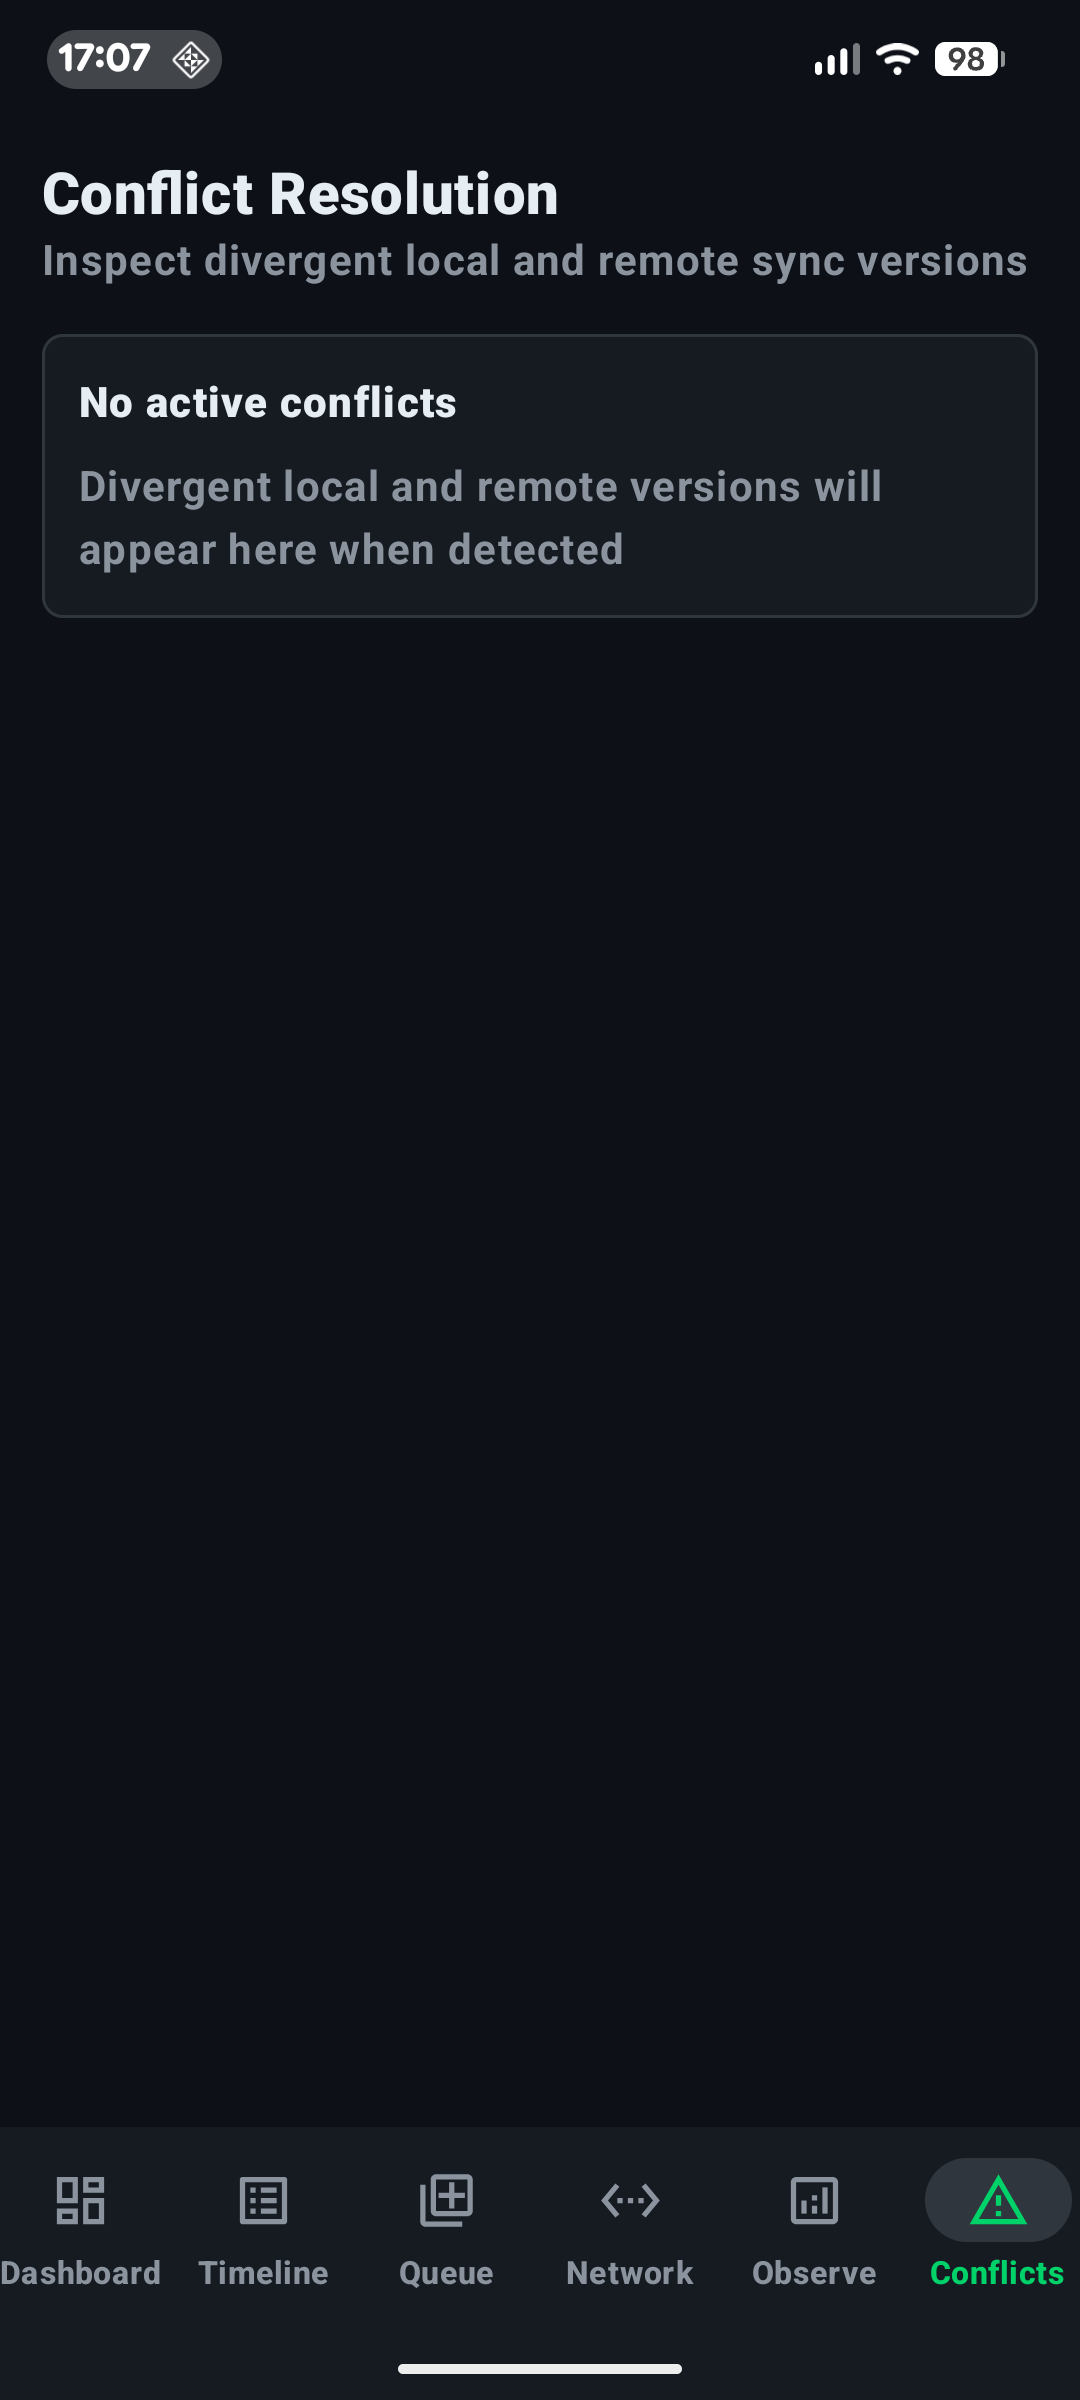
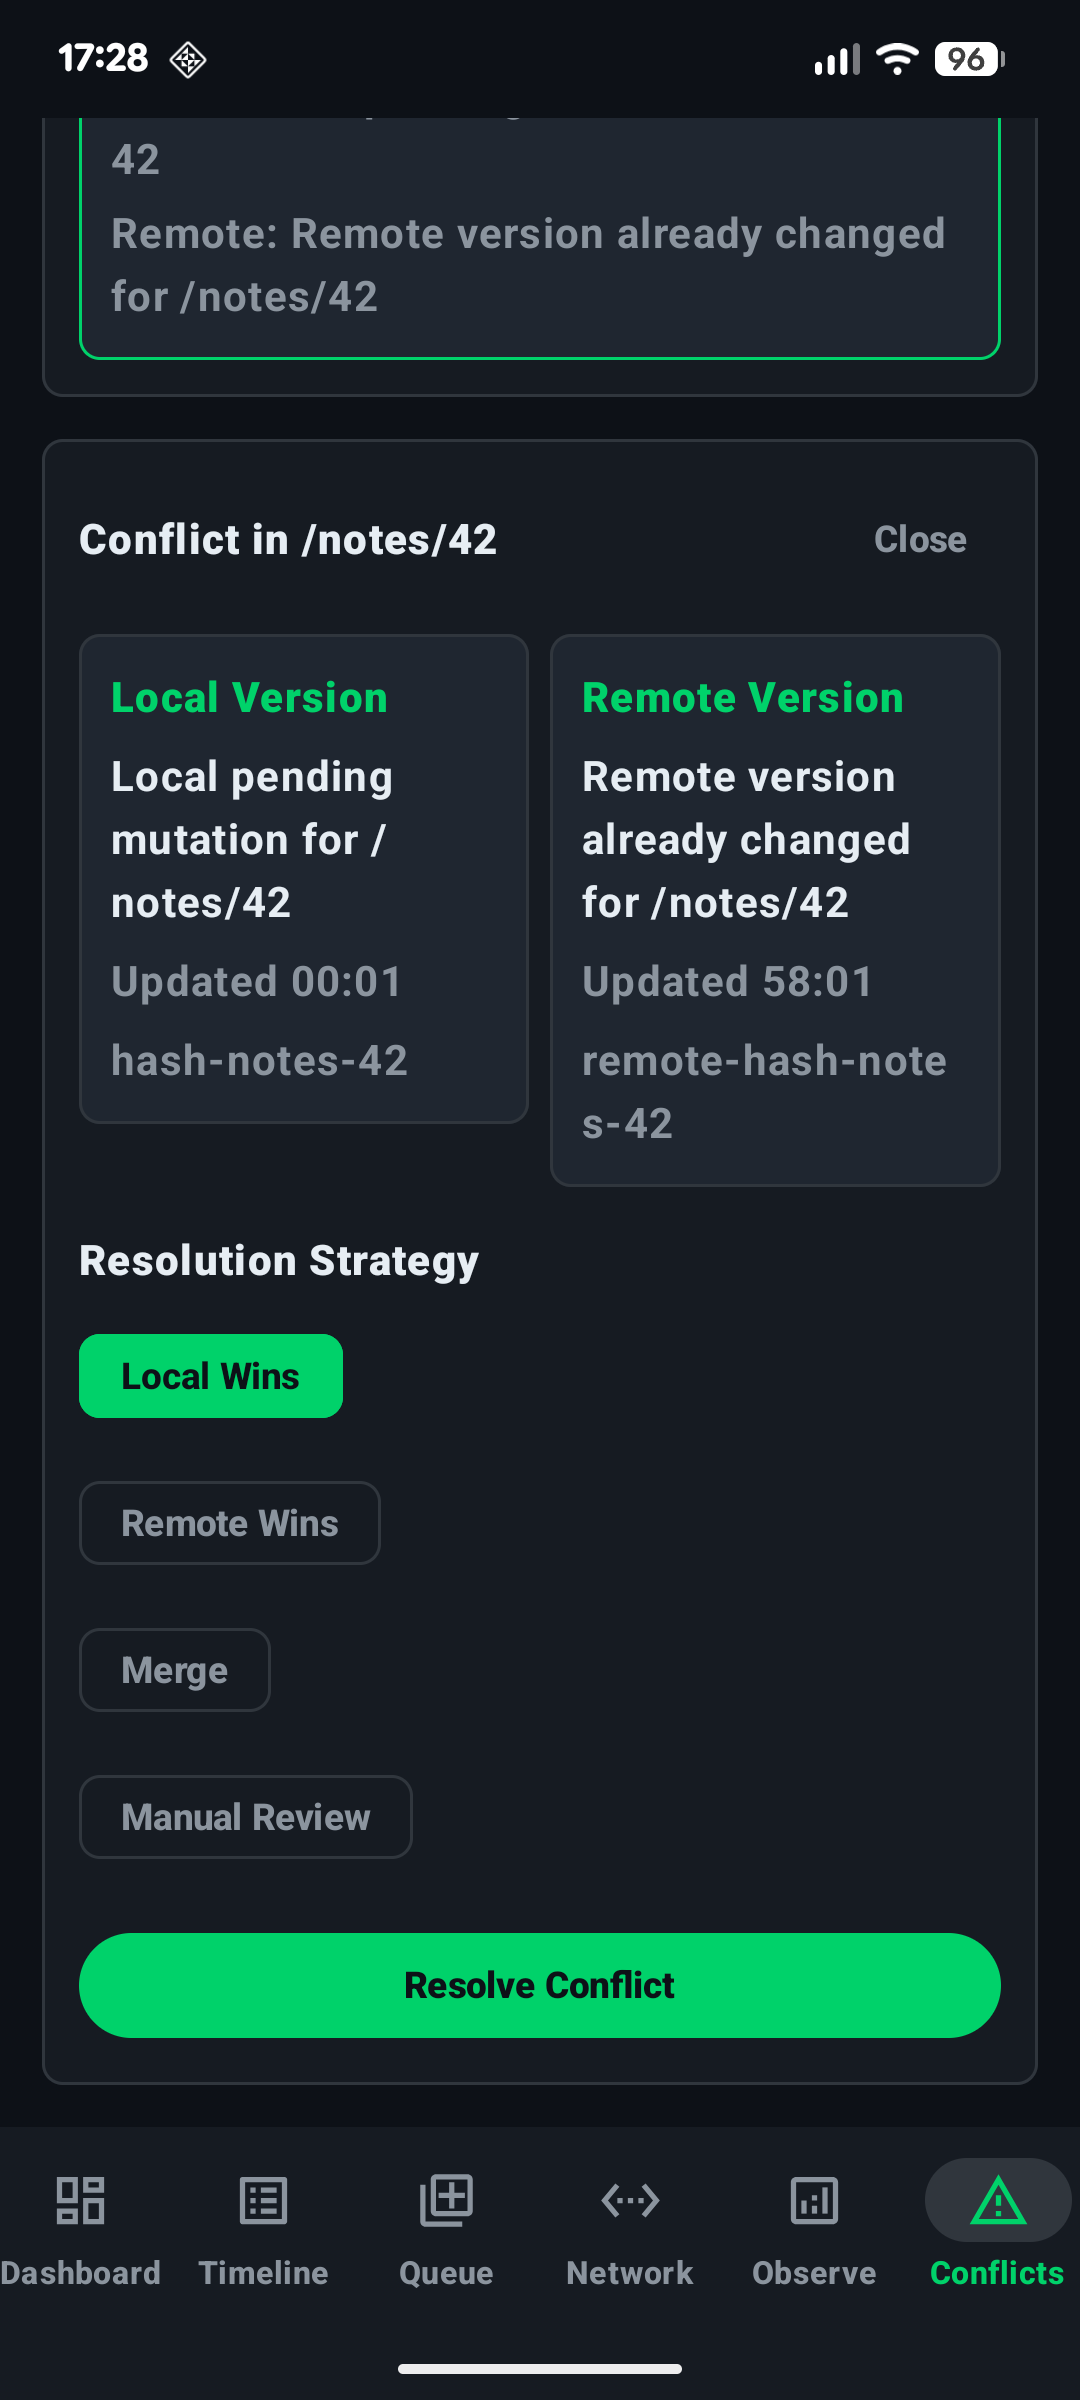
Fix dashboard runtime control layout

diff --git a/app/src/main/java/com/paulmathew/pulsesync/ui/dashboard/DashboardScreen.kt b/app/src/main/java/com/paulmathew/pulsesync/ui/dashboard/DashboardScreen.kt
@@ -54,6 +54,7 @@ fun DashboardRoute(
         onCompleteActiveAsSuccess = viewModel::onCompleteActiveAsSuccess,
         onCompleteActiveAsTimeout = viewModel::onCompleteActiveAsTimeout,
         onApplyNetworkResult = viewModel::onCompleteActiveUsingNetworkProfile,
+        onCompleteActiveAsConflict = viewModel::onCompleteActiveAsConflict,
     )
 }
 
@@ -64,6 +65,7 @@ fun DashboardScreen(
     onCompleteActiveAsSuccess: () -> Unit,
     onCompleteActiveAsTimeout: () -> Unit,
     onApplyNetworkResult: () -> Unit,
+    onCompleteActiveAsConflict: () -> Unit,
     modifier: Modifier = Modifier
 ) {
     Column(
@@ -92,7 +94,8 @@ fun DashboardScreen(
         DashboardRuntimeControls(
             onStartNextSync = onStartNextSync,
             onApplyNetworkResult = onApplyNetworkResult,
-            onCompleteActiveAsTimeout = onCompleteActiveAsTimeout
+            onCompleteActiveAsTimeout = onCompleteActiveAsTimeout,
+            onCompleteActiveAsConflict = onCompleteActiveAsConflict,
         )
 
         RecentEventsPanel(state = state)
@@ -210,7 +213,8 @@ private fun RecentEventsPanel(
 private fun DashboardRuntimeControls(
     onStartNextSync: () -> Unit,
     onApplyNetworkResult: () -> Unit,
-    onCompleteActiveAsTimeout: () -> Unit
+    onCompleteActiveAsTimeout: () -> Unit,
+    onCompleteActiveAsConflict: () -> Unit,
 ) {
     OperationalPanel {
         Text(
@@ -224,41 +228,61 @@ private fun DashboardRuntimeControls(
         )
         Spacer(modifier = Modifier.height(12.dp))
 
-        Row(
-            modifier = Modifier.fillMaxWidth(),
-            horizontalArrangement = Arrangement.spacedBy(8.dp)
+        Column(
+            verticalArrangement = Arrangement.spacedBy(8.dp)
         ) {
-            Button(
-                modifier = Modifier.weight(1f),
-                onClick = onStartNextSync,
-                colors = ButtonDefaults.buttonColors(
-                    containerColor = OperationalGreen,
-                    contentColor = GraphiteBackground
-                )
+            Row(
+                modifier = Modifier.fillMaxWidth(),
+                horizontalArrangement = Arrangement.spacedBy(8.dp)
             ) {
-                Text(text = "Start")
+                Button(
+                    modifier = Modifier.weight(1f),
+                    onClick = onStartNextSync,
+                    colors = ButtonDefaults.buttonColors(
+                        containerColor = OperationalGreen,
+                        contentColor = GraphiteBackground
+                    )
+                ) {
+                    Text(text = "Start")
+                }
+
+                Button(
+                    modifier = Modifier.weight(1f),
+                    onClick = onApplyNetworkResult,
+                    colors = ButtonDefaults.buttonColors(
+                        containerColor = WarningAmber,
+                        contentColor = GraphiteBackground
+                    )
+                ) {
+                    Text(text = "Network")
+                }
             }
 
-            Button(
-                modifier = Modifier.weight(1f),
-                onClick = onApplyNetworkResult,
-                colors = ButtonDefaults.buttonColors(
-                    containerColor = WarningAmber,
-                    contentColor = GraphiteBackground
-                )
+            Row(
+                modifier = Modifier.fillMaxWidth(),
+                horizontalArrangement = Arrangement.spacedBy(8.dp)
             ) {
-                Text(text = "Network")
-            }
+                Button(
+                    modifier = Modifier.weight(1f),
+                    onClick = onCompleteActiveAsTimeout,
+                    colors = ButtonDefaults.buttonColors(
+                        containerColor = FailureRed,
+                        contentColor = TextPrimary
+                    )
+                ) {
+                    Text(text = "Timeout")
+                }
 
-            Button(
-                modifier = Modifier.weight(1f),
-                onClick = onCompleteActiveAsTimeout,
-                colors = ButtonDefaults.buttonColors(
-                    containerColor = FailureRed,
-                    contentColor = TextPrimary
-                )
-            ) {
-                Text(text = "Timeout")
+                Button(
+                    modifier = Modifier.weight(1f),
+                    onClick = onCompleteActiveAsConflict,
+                    colors = ButtonDefaults.buttonColors(
+                        containerColor = WarningAmber,
+                        contentColor = GraphiteBackground
+                    )
+                ) {
+                    Text(text = "Conflict")
+                }
             }
         }
     }
@@ -276,7 +300,8 @@ fun DashboardScreenPreview() {
             onStartNextSync = {},
             onCompleteActiveAsSuccess = {},
             onCompleteActiveAsTimeout = {},
-            onApplyNetworkResult = {}
+            onApplyNetworkResult = {},
+            onCompleteActiveAsConflict = {}
         )
     }
 }
@@ -299,7 +324,8 @@ fun DashboardDegradedPreview() {
             onStartNextSync = {},
             onCompleteActiveAsSuccess = {},
             onCompleteActiveAsTimeout = {},
-            onApplyNetworkResult = {}
+            onApplyNetworkResult = {},
+            onCompleteActiveAsConflict = {}
         )
     }
 }
@@ -317,7 +343,8 @@ fun DashboardFailureHeavyPreview() {
             onStartNextSync = {},
             onCompleteActiveAsSuccess = {},
             onCompleteActiveAsTimeout = {},
-            onApplyNetworkResult = {}
+            onApplyNetworkResult = {},
+            onCompleteActiveAsConflict = {}
 
 
         )

diff --git a/app/src/main/java/com/paulmathew/pulsesync/ui/observability/ObservabilityViewModel.kt b/app/src/main/java/com/paulmathew/pulsesync/ui/observability/ObservabilityViewModel.kt
@@ -3,7 +3,6 @@ package com.paulmathew.pulsesync.ui.observability
 import androidx.lifecycle.ViewModel
 import androidx.lifecycle.viewModelScope
 import com.paulmathew.pulsesync.sync.runtime.SyncOrchestrator
-import com.paulmathew.pulsesync.sync.runtime.SyncRuntimeProvider
 import com.paulmathew.pulsesync.ui.mapping.toObservabilityUiState
 import dagger.hilt.android.lifecycle.HiltViewModel
 import kotlinx.coroutines.flow.SharingStarted

diff --git a/app/src/main/java/com/paulmathew/pulsesync/ui/queue/QueueViewModel.kt b/app/src/main/java/com/paulmathew/pulsesync/ui/queue/QueueViewModel.kt
@@ -4,7 +4,6 @@ import androidx.lifecycle.ViewModel
 import androidx.lifecycle.viewModelScope
 import com.paulmathew.pulsesync.model.QueuedOperation
 import com.paulmathew.pulsesync.sync.runtime.SyncOrchestrator
-import com.paulmathew.pulsesync.sync.runtime.SyncRuntimeProvider
 import com.paulmathew.pulsesync.ui.mapping.toQueueUiState
 import dagger.hilt.android.lifecycle.HiltViewModel
 import kotlinx.coroutines.flow.MutableStateFlow

diff --git a/app/src/main/java/com/paulmathew/pulsesync/ui/timeline/TimelineViewModel.kt b/app/src/main/java/com/paulmathew/pulsesync/ui/timeline/TimelineViewModel.kt
@@ -3,7 +3,6 @@ package com.paulmathew.pulsesync.ui.timeline
 import androidx.lifecycle.ViewModel
 import androidx.lifecycle.viewModelScope
 import com.paulmathew.pulsesync.sync.runtime.SyncOrchestrator
-import com.paulmathew.pulsesync.sync.runtime.SyncRuntimeProvider
 import com.paulmathew.pulsesync.ui.mapping.toTimelineUiState
 import dagger.hilt.android.lifecycle.HiltViewModel
 import kotlinx.coroutines.flow.MutableStateFlow

diff --git a/app/src/main/java/com/paulmathew/pulsesync/ui/dashboard/DashboardViewModel.kt b/app/src/main/java/com/paulmathew/pulsesync/ui/dashboard/DashboardViewModel.kt
@@ -48,4 +48,10 @@ class DashboardViewModel @Inject constructor(
             nowMillis = System.currentTimeMillis()
         )
     }
+    fun onCompleteActiveAsConflict() {
+        orchestrator.completeActive(
+            result = SyncAttemptResult.Failure(SyncFailureReason.Conflict),
+            nowMillis = System.currentTimeMillis()
+        )
+    }
 }

diff --git a/app/src/test/java/com/paulmathew/pulsesync/ui/mapping/RuntimeStateMapperTest.kt b/app/src/test/java/com/paulmathew/pulsesync/ui/mapping/RuntimeStateMapperTest.kt
@@ -13,7 +13,6 @@ import com.paulmathew.pulsesync.sync.runtime.SyncRuntimeState
 import com.paulmathew.pulsesync.ui.queue.QueueFilter
 import com.paulmathew.pulsesync.ui.timeline.TimelineFilter
 import org.junit.Assert.assertEquals
-import org.junit.Assert.assertTrue
 import org.junit.Test
 
 class RuntimeStateMapperTest {
